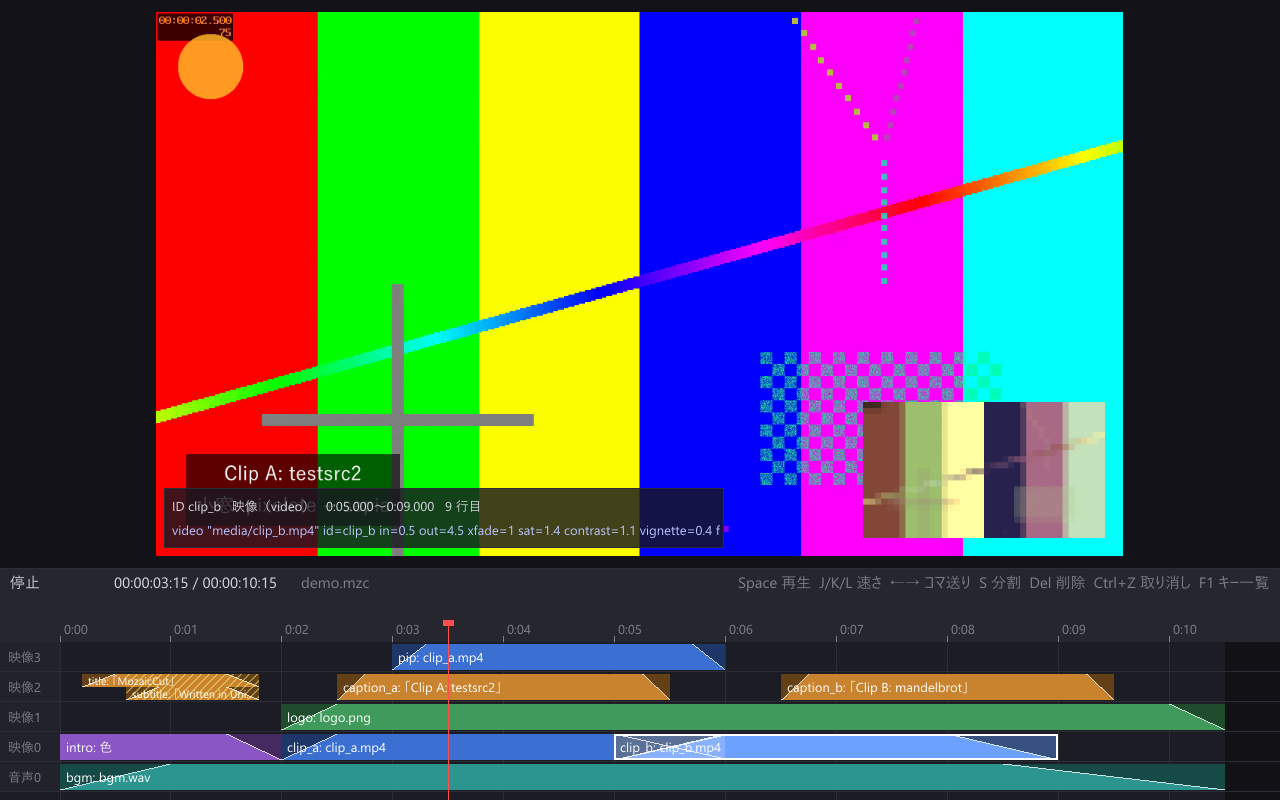
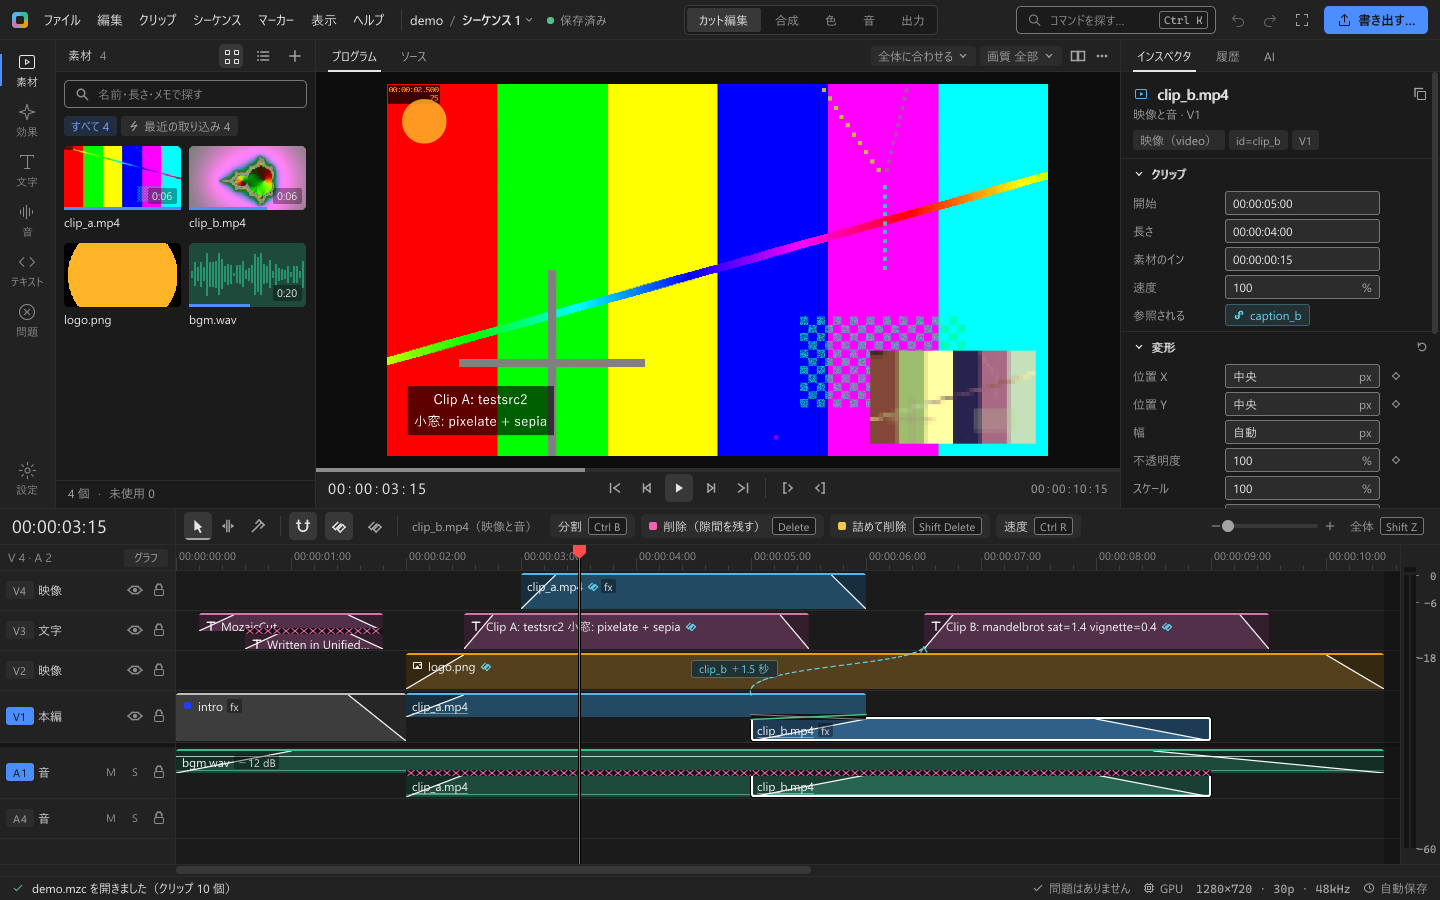
説明書: 1 章（はじめに）を配布の形といまのスタート画面に合わせる
1 章は必要なものに FFmpeg のライブラリ・wasmtime・wgpu-native がなく、
スタート画面は「素材を展開しない」「Del で外す」など前の版の動きのまま、
編集画面の絵も前の画面だった。

- 1.0 に同梱の mozcut.exe・plugins/・設定の置き場所を足す
- 1.1 必要なものを今の要件にし、1.2 の help の出力を取り直す
- 1.3 スタート画面を作り直す（新しいプロジェクト・開く・ドロップ・
  最近のプロジェクト・キーの配列）
- 1.4 開き方と自動保存、トラックの番号（画面は V1 から、.mzc は 0 から）
- 1.5 画面での作り方と、作られる .mzc の例を足す
- images/editor.png を今の編集画面で撮り直す

確かめ方:
- help・check・show を動かして写し、first.mzc の例は一時フォルダで確かめた
- 絵は SDL_VIDEO_DRIVER=offscreen で 1440x900 で撮って見た
- start.um・pool_start.um・tools/mozcut.mjs・tl_model.um・e2_state.um と照らした

diff --git a/docs/manual/01-getting-started.md b/docs/manual/01-getting-started.md
@@ -1,24 +1,35 @@
 # 1. はじめに
 
-[目次](README.md) ／ 次: [2. 編集の基本](02-editing.md)
+[目次](README.md) ／ 前: [0. はじめての人へ](00-beginner.md) ／ 次: [2. 編集の基本](02-editing.md)
 
-## 1.0 exe だけで使う
+この章は、MozaicCut を動かす 2 つの形（配布の形と開発用のフォルダ）、スタート画面、プロジェクトの開き方・作り方、`show` の読み方の参照です。画面の見方そのものは [0.4](00-beginner.md#04-編集画面の見方) にあります。
 
-配布の形（`node tools/mozcut.mjs package` で作る `dist/MozaicCut/`）があれば、下の「必要なもの」はどれも要りません。`MozaicCut.exe` をダブルクリックするとスタート画面が出ます。`.mzc` は `MozaicCut.exe` に落とすか、［プログラムから開く］で `MozaicCut.exe` を選ぶと開きます（ダブルクリックで開けるようにする手順は、そのフォルダの `README.txt`）。最近の一覧は `%APPDATA%\MozaicCut` に置きます。
+## 1.0 配布の形（exe だけで使う）
 
-## 1.1 必要なもの
+配布の形（`node tools/mozcut.mjs package` で作る `dist/MozaicCut/`。Mac は `dist/MozaicCut.app`）があれば、下の「必要なもの」はどれも要りません。
+
+- `MozaicCut.exe` をダブルクリックするとスタート画面が出ます。
+- `.mzc` は `MozaicCut.exe` に落とすか、［プログラムから開く］で `MozaicCut.exe` を選ぶと開きます（ダブルクリックで開けるようにする手順は、そのフォルダの `README.txt`）。
+- 同じフォルダの `mozcut.exe` は、Node.js なしで動くコマンドです（`check`・`show`・`op`・`schema`・`render`・`preview`・`mcp` など。使い方は `mozcut.exe` を引数なしで実行すると出ます）。引数の形は、開発用の `node tools/mozcut.mjs` と少し違います（たとえば `render` は `--out` を付けたときに MP4 を書きます）。
+- 効果とトランジションは、同じフォルダの `plugins/` にある `.mzplug` です。
+- 最近の一覧・キーの割り当ての配列・設定は `%APPDATA%\MozaicCut` に置きます。
+
+## 1.1 開発用のフォルダで使うときに必要なもの
 
 | もの | 何に使うか | 入れ方・場所の伝え方 |
 | --- | --- | --- |
 | Node.js 22.18 以上 | コマンド（`tools/mozcut.mjs`）を動かす | PATH に置く |
 | [UnifiedMozaic](../../../UnifiedMozaic)（UM）と clang | MozaicCut のエンジンと編集画面を作る | MozaicCut の隣のフォルダに置くか、環境変数 `UM_HOME` |
-| ffmpeg と ffprobe | 素材を読む・動画に書き出す | PATH に置くか、環境変数 `FFMPEG` / `FFPROBE` |
+| FFmpeg 7.1 以降の共有ライブラリ（LGPL のビルド） | 素材を読む・動画に書き出す（エンジンに組み込む） | 環境変数 `UM_FFMPEG_HOME`（なければ隣とホームフォルダを探す）。見つからなければ、ffmpeg と ffprobe のコマンドで展開する予備の経路で動く |
+| ffmpeg のコマンド | `preview` の PNG への変換、デモの素材作り（`tools/demo-media.mjs`）、予備の経路 | PATH に置くか、環境変数 `FFMPEG` / `FFPROBE` |
+| wasmtime | 効果とトランジション（`.mzplug`）を動かす | 隣かホームフォルダの `wasmtime-*`、または環境変数 `UM_WASMTIME` |
+| wgpu-native（なくてもよい） | GPU で描く・効果を掛ける | 隣かホームフォルダの `wgpu-native/<版>`、または環境変数 `UM_WGPU_HOME`。なければ CPU だけの版になる |
 | SDL3（3.2.12 以上） | 編集画面（ウィンドウ）だけに使う | Windows は `SDL3-devel-*-VC.zip` を展開して `UM_SDL3`（なければ隣とホームフォルダの `SDL3-*` を探す）。macOS は `brew install sdl3` |
-| TrueType のフォント | 文字を描く | 指定しなければ、游ゴシック Medium → BIZ UDゴシック → メイリオ → Arial Unicode → IPAex ゴシック → DejaVu Sans の順に探す |
+| TrueType / OpenType のフォント | 文字を描く | 指定しなければ、游ゴシック Medium → BIZ UDゴシック → メイリオ → Arial Unicode → IPAex ゴシック → DejaVu Sans の順に探す |
 
 コマンドだけで編集・書き出しをするなら、SDL3 はなくても動きます。
 
-## 1.2 はじめての起動
+## 1.2 はじめての起動（開発用のフォルダ）
 
 MozaicCut のフォルダで、次を順に実行します。
 
@@ -27,14 +38,14 @@ node tools/demo-media.mjs              # デモの素材を作る（初回だけ
 node tools/mozcut.mjs check demo/demo.mzc
 ```
 
-初回は、エンジン（`build/mozcut`）を自動でビルドします（数十秒かかります）。終わると次のように出ます。
+初回は、エンジン（`build/mozcut`）と効果のプラグイン（`build/plugins/*.mzplug`）を自動で作ります（数十秒かかります）。プラグインは、`plugins/` か隣の `MozaicCut-Plugins/` にソースがあればそこから作り、なければ GitHub の Releases からビルド済みのものを取ってきます。終わると次のように出ます。
 
 ```console
 $ mozcut check demo/demo.mzc
 問題はありません（クリップ 10 個、長さ 0:10.500）
 ```
 
-エンジンと編集画面を明示的に作り直すときは `mozcut build` です。`src/` や `plugins/` を書き換えたときは、次の実行で自動で作り直します。
+エンジンと編集画面を明示的に作り直すときは `mozcut build` です（`mozcut build engine` / `mozcut build editor` で片方だけ）。`src/` や `plugins/` を書き換えたときは、次の実行で自動で作り直します。
 
 使えるコマンドの一覧は `mozcut help` で出ます。
 
@@ -52,9 +63,15 @@ $ mozcut help
   op      <project.mzc> --file <ops.txt | -> [--dry-run] [--json]
                                                 操作を適用して保存する。--file はファイル（- なら標準入力）の 1 行に 1 つ
   schema  [--json]                              キー・効果・操作・時刻と参照の書き方の一覧
-  build                                         エンジンと編集画面を作り直す
-  plugin build <名前 | file.um> [-o out.mzplug] 効果のプラグインを wasm（dist/<名前>.mzplug）にする
-  plugin list [--json]                          組み込みの効果と、入れた .mzplug の一覧
+  motion  <project.mzc> <追うクリップ> <x,y> --to <動かすクリップ> [--dry-run] [--json]
+                                                映像の中の点（画面の画素）を追い、動かすクリップの位置のキーフレームにする
+  build   [engine | editor]                     エンジンと編集画面を作り直す（片方だけも可）
+  package [-o <dir>]                            配布の形を作る。Windows は dist/MozaicCut/（MozaicCut.exe と DLL・tokens.json・
+                                                アイコン・説明書・ライセンスの文書）、macOS は dist/MozaicCut.app。node なしで動く
+  plugin build <名前 | file.um> [-o out.mzplug] 効果・トランジションのプラグインを wasm（.mzplug）にする
+  plugin build-all [--force]                    plugins/（または ../MozaicCut-Plugins/）の全プラグインを build/plugins/*.mzplug へ差分ビルドする
+  plugin fetch [--tag <版>] [--repo <owner/repo>] GitHub Releases からビルド済みプラグイン一式（mozaiccut-plugins.zip）を build/plugins/ へ取得する
+  plugin list [--json]                          組み込み（0）・標準（build/plugins/）・追加（plugins-installed/）の .mzplug 一覧
   plugin install <file.mzplug>                  .mzplug を plugins-installed/ に入れる
   plugin uninstall <名前>                       入れた .mzplug を外す
 
@@ -63,34 +80,43 @@ op の書き方: node tools/mozcut.mjs schema
 
 ## 1.3 スタート画面
 
-プロジェクトを渡さずに編集画面を起動すると、スタート画面が開きます。
+プロジェクトを渡さずに起動すると、スタート画面が開きます（配布の形なら `MozaicCut.exe` をそのまま起動、開発用のフォルダなら `mozcut edit`）。絵は [0.2](00-beginner.md#02-起動する) にあります。
 
-```sh
-mozcut edit
-```
+| 場所 | できること |
+| --- | --- |
+| 左「新しいプロジェクト」 | 名前・解像度とフレームレート（既定は「最初の素材に合わせる（おすすめ）」。一覧から選ぶか「自分で決める」）・保存する場所（［変える…］）・詳しい設定（音のレート・色の範囲）を決めて［作成する］（Enter）。保存する場所に `<名前>.mzc` を書いて開きます。同じ名前のファイルがあれば上書きせずに知らせます |
+| 左［開く…］（Ctrl+O） | ファイルのダイアログで `.mzc` を選んで開く |
+| 左の点線の枠 | 素材やフォルダを落とすと、新しいプロジェクトを作って落とした素材を順に並べて開く。`.mzc` を落とせばそれを開く |
+| 右「最近のプロジェクト」 | 編集画面で開いたプロジェクトが新しい順に最大 10 件。カードには名前・場所・大きさとフレームレート・長さと、「問題なし」「エラー N」「警告 N」「素材がありません N」「外で変更あり」の札が出ます。「絞り込む」で探し、更新が新しい順・名前の順・長さの順に並べ替え、カードとリストを切り替えられます。↑↓ で選び Enter（かクリック）で開きます |
+| 下「キーの割り当て」 | MozaicCut 標準・Premiere Pro 互換・DaVinci Resolve 互換・MozaicCut 0.x から選ぶ（[2.11](02-editing.md#211-キーの一覧編集画面)）。どの配列でも Delete は隙間を残す削除です |
+| 上の帯の歯車 | 設定（Ctrl+,） |
 
-- **はじめる**: 「デモを開く」（MozaicCut のフォルダの `demo/demo.mzc`）。
-- **最近開いたプロジェクト**: 編集画面で開いたプロジェクトが、新しい順に最大 10 件並びます。
-- 操作: ↑↓ で選ぶ、Enter かクリックで開く、Del で一覧から外す（ファイルは消しません）、Esc で終わる。
-
-スタート画面から開いたときは、**素材を展開しません**（展開済みのキャッシュ `<名前>.cache/` があればそれを使います）。展開されていない素材は、画面に「`node tools/mozcut.mjs edit <project>` で開くと展開します」と案内が出ます。はじめて開くプロジェクトは、次の「端末から開く」で開いてください。
-
-準備中: 新しいプロジェクトを作るカード、素材のドロップ、「開く…」（Ctrl+O）のダイアログ、縮小画像つきの最近のプロジェクト、検索と並べ替え。
+最近の一覧は `<設定の置き場所>\mozcut-recent.txt`、選んだキーの配列は `mozcut-keymap.txt` に書きます。設定の置き場所は既定で `%APPDATA%\MozaicCut` です（`mozcut-edit.exe --home <フォルダ>` で変えられます）。
 
 ## 1.4 プロジェクトを開く
+
+開き方は次のどれでも同じです。
+
+- スタート画面のカード・［開く…］・`.mzc` のドロップ
+- 編集画面のファイルのメニューの［プロジェクトを開く…］（Ctrl+O）
+- 端末から `mozcut edit <project.mzc>`
 
 ```sh
 mozcut edit demo/demo.mzc
 ```
 
-素材を ffmpeg で展開してから（2 回目からはキャッシュを使います）、編集画面が開きます。上がプレビュー、下がタイムラインです。
+![編集画面（clip_b を選んだところ。右のインスペクタに clip_b の設定が出ている）](images/editor.png)
 
-![編集画面（clip_b を選んだところ）](images/editor.png)
+- FFmpeg を組み込んだ版（配布の形と、FFmpeg のライブラリを見つけてビルドした版）は、素材をそのまま読みます。予備の経路の版は、`mozcut edit` が素材を ffmpeg で `<名前>.cache/` に展開してから開きます（2 回目からはキャッシュを使います）。
+- 編集画面は、開いている `.mzc` を 0.4 秒ごとに見ています。テキストエディタやコマンド、AI が `.mzc` を書き換えて保存すると、画面はすぐに読み直し、その書き換えを取り消しの 1 つとして積みます（[2.8](02-editing.md#28-取り消しとやり直し)）。
+- 編集はどれも、操作のたびに `.mzc` に書き込みます（自動保存）。Ctrl+S でも保存できます。
+- 閉じるのは Ctrl+Q（ファイルのメニューの［終わる］）です。
 
-- 画面を開いている間、`mozcut edit` は `.mzc` を見張り、書き換わるたびに必要な素材だけを展開し直します。テキストエディタで `.mzc` を書き換えて保存しても、画面はすぐに読み直します。
-- 閉じるのは Ctrl+Q か Ctrl+W です。
+### トラックの番号
 
-コマンドだけで中身を見るなら `show` です。
+画面のタイムラインは、トラックの番号を **1 から** 数えます（V1、V2 …、A1 …）。`.mzc` の `track=` と `show` の表は **0 から** 数えます。画面の V1 が `track=0`（`show` の V0）、V2 が `track=1` です。上の絵の V4 にある `pip` は、`.mzc` では `track=3` です。
+
+### コマンドで中身を見る（`show`）
 
 ```console
 $ mozcut show demo/demo.mzc --width 90
@@ -119,11 +145,18 @@ A0  [bgm                                                                        
 #9  bgm        24  audio  A0        0:00.000  0:10.500  media/bgm.wav                             -
 ```
 
-`V` は映像のトラック（番号が大きいほど手前に描く）、`A` は音のトラックです。左の `#0`、`#1` … と `ID`、`行` は、操作でクリップを指すときに使います（[2.2](02-editing.md#22-クリップの指し方)）。
+`V` は映像のトラック（番号が大きいほど手前に描く）、`A` は音のトラックです（どちらも 0 から）。左の `#0`、`#1` … と `ID`、`行` は、操作でクリップを指すときに使います（[2.2](02-editing.md#22-クリップの指し方)）。
 
 ## 1.5 プロジェクトを作る
 
-いまの版には「新しいプロジェクト」の画面がありません（準備中）。プロジェクトは **テキストファイルを 1 つ作る** だけで始められます。
+画面で作るなら、スタート画面の「新しいプロジェクト」か、素材を点線の枠に落とします（[1.3](#13-スタート画面)、[0.3](00-beginner.md#03-新しいプロジェクトを作る)）。編集画面からは、ファイルのメニューの［新しいプロジェクト…］（Ctrl+N）で保存する場所を選んで作れます。できるのは、次のような短い `.mzc` です（素材を落としたときは素材の行も並びます）。「最初の素材に合わせる」のときは、はじめ 1920x1080・30fps にしておき、最初の映像を入れたときにその大きさとフレームレートに合わせ直します。
+
+```sh
+# 旅行の思い出（MozaicCut のスタート画面で作ったプロジェクト）
+project size=1920x1080 fps=30 rate=48000 bg=000000
+```
+
+プロジェクトは **テキストファイルを 1 つ書く** だけでも始められます。次の例は、この章と [2 章](02-editing.md) で使う `first.mzc` です。
 
 1. 好きなフォルダを作り、素材を入れます（例: `C:\Users\you\Videos\myvideo\media\`）。
 2. 同じフォルダに `first.mzc` を作り、テキストエディタで次のように書きます（UTF-8 で保存）。
